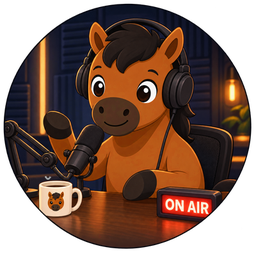
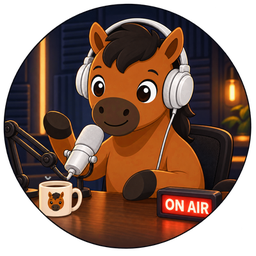
Close Eddy laugh eyes and recolor podcast gear white [fast-deploy] [speaking-release]

diff --git a/speaking-system.html b/speaking-system.html
@@ -57,7 +57,7 @@
         </div>
 
         <button class="header-mascot" type="button" data-eddy-speaking-toggle aria-label="暫停 Eddy 說話動畫">
-          <img src="speaking-eddy/eddy-speaking.gif?v=20261022-2" alt="Eddy 在播客錄音室對着麥克風說話，咖啡冒出輕煙">
+          <img src="speaking-eddy/eddy-speaking.gif?v=20261022-3" alt="Eddy 在播客錄音室對着麥克風說話，咖啡冒出輕煙">
         </button>
 
         <div class="header-actions edmund-system-header__actions" data-auth-actions hidden>
@@ -158,7 +158,7 @@
   <script src="dse-speaking-source.js?v=20260911-2024a"></script>
   <script src="speaking-system.js?v=20261021-ielts-types1"></script>
   <script src="speaking-performance-indicator.js?v=20260916-study2"></script>
-  <script src="speaking-eddy-toggle.js?v=20261022-2" defer></script>
+  <script src="speaking-eddy-toggle.js?v=20261022-3" defer></script>
 <script type="module" src="speaking-transcription-controls.mjs?v=20260908-refine7"></script>
 </body>
 </html>

diff --git a/speaking-eddy-toggle.js b/speaking-eddy-toggle.js
@@ -2,9 +2,9 @@
   const button = document.querySelector('[data-eddy-speaking-toggle]');
   if (!button) return;
   const image = button.querySelector('img');
-  const gif = 'speaking-eddy/eddy-speaking.gif?v=20261022-2';
+  const gif = 'speaking-eddy/eddy-speaking.gif?v=20261022-3';
   const stills = Array.from({ length: 7 }, (_, index) =>
-    `speaking-eddy/stills/eddy-${String(index + 1).padStart(2, '0')}.png?v=20261022-2`
+    `speaking-eddy/stills/eddy-${String(index + 1).padStart(2, '0')}.png?v=20261022-3`
   );
   const key = 'edmund-speaking-eddy-playing';
   let playing = !window.matchMedia('(prefers-reduced-motion: reduce)').matches;

diff --git a/tools/mascot-art/speaking/build_eddy_speaking.py b/tools/mascot-art/speaking/build_eddy_speaking.py
@@ -4,6 +4,7 @@
 from __future__ import annotations
 
 import math
+from functools import lru_cache
 from pathlib import Path
 
 import numpy as np
@@ -20,8 +21,36 @@ FRAMES = 160
 FRAME_MS = 40
 
 
+@lru_cache(maxsize=1)
+def equipment_layer() -> tuple[Image.Image, Image.Image]:
+    """Isolate the image-generated white studio gear from the approved art."""
+    original = Image.open(ART / "eddy-speaking-closed.png").convert("RGBA")
+    recolored = Image.open(ART / "eddy-speaking-white-equipment.png").convert("RGBA")
+    old = np.asarray(original, dtype=np.int16)[..., :3]
+    new = np.asarray(recolored, dtype=np.int16)[..., :3]
+    old_light = old.mean(axis=2)
+    new_light = new.mean(axis=2)
+    neutral = new.max(axis=2) - new.min(axis=2) < 70
+    changed_to_white = ((new_light - old_light > 38) & (new_light > 105) & neutral)
+    region = Image.new("L", original.size, 0)
+    draw = ImageDraw.Draw(region)
+    # Headband, earcups, mic and the thin headphone cable. The furniture and
+    # Eddy's face remain sourced from each original expression key.
+    for box in ((395, 75, 945, 330), (355, 270, 455, 520),
+                (795, 285, 975, 565), (300, 595, 525, 900),
+                (760, 500, 875, 865)):
+        draw.rectangle(box, fill=255)
+    selection = np.uint8(changed_to_white) * np.asarray(region, dtype=np.uint8)
+    mask = Image.fromarray(selection, "L").filter(ImageFilter.MaxFilter(9))
+    mask = mask.filter(ImageFilter.GaussianBlur(1.2))
+    return recolored, mask
+
+
 def key(name: str) -> Image.Image:
-    return Image.open(ART / f"eddy-speaking-{name}.png").convert("RGBA").resize(
+    source = Image.open(ART / f"eddy-speaking-{name}.png").convert("RGBA")
+    recolored, mask = equipment_layer()
+    source = Image.composite(recolored, source, mask)
+    return source.resize(
         (WORK, WORK), Image.Resampling.LANCZOS
     )
 
@@ -141,7 +170,11 @@ def render(base: Image.Image, open_key: Image.Image, blink_key: Image.Image,
     # The laugh changes the mouth and cheeks only. Eddy keeps the same eyes,
     # avoiding the unrelated, asymmetric laughing-eye key drawing.
     image = blend_local(laugh_key, image, mouth, laugh)
-    image = blend_local(blink_key, image, eyes, blink_amount(frame) * (1 - laugh))
+    # Keep a short, symmetrical eyes-closed expression through the hearty part
+    # of the laugh, then open the eyes before returning to the speaking pose.
+    laugh_eyes = eased(110, 120, frame) * (1 - eased(136, 147, frame))
+    eye_closure = max(blink_amount(frame) * (1 - laugh), laugh_eyes)
+    image = blend_local(blink_key, image, eyes, eye_closure)
 
     # A single shallow nod near the middle of the laugh, rather than two bobs.
     nod = eased(119, 126, frame) * (1 - eased(131, 139, frame))
@@ -177,7 +210,7 @@ def main() -> None:
     STILLS.mkdir(parents=True, exist_ok=True)
     base, opened, blink, laugh = (key(name) for name in ("closed", "open", "blink", "laugh"))
     mouth = oval_mask(((158, 175, 221, 220),), 3)
-    eyes = oval_mask(((140, 114, 171, 158), (213, 113, 247, 158)), 3)
+    eyes = oval_mask(((136, 108, 180, 174), (205, 106, 257, 177)), 2)
     frames = [render(base, opened, blink, laugh, mouth, eyes, frame)
               for frame in range(FRAMES)]
     for number, frame in enumerate((8, 37, 58, 88, 116, 128, 152), 1):
